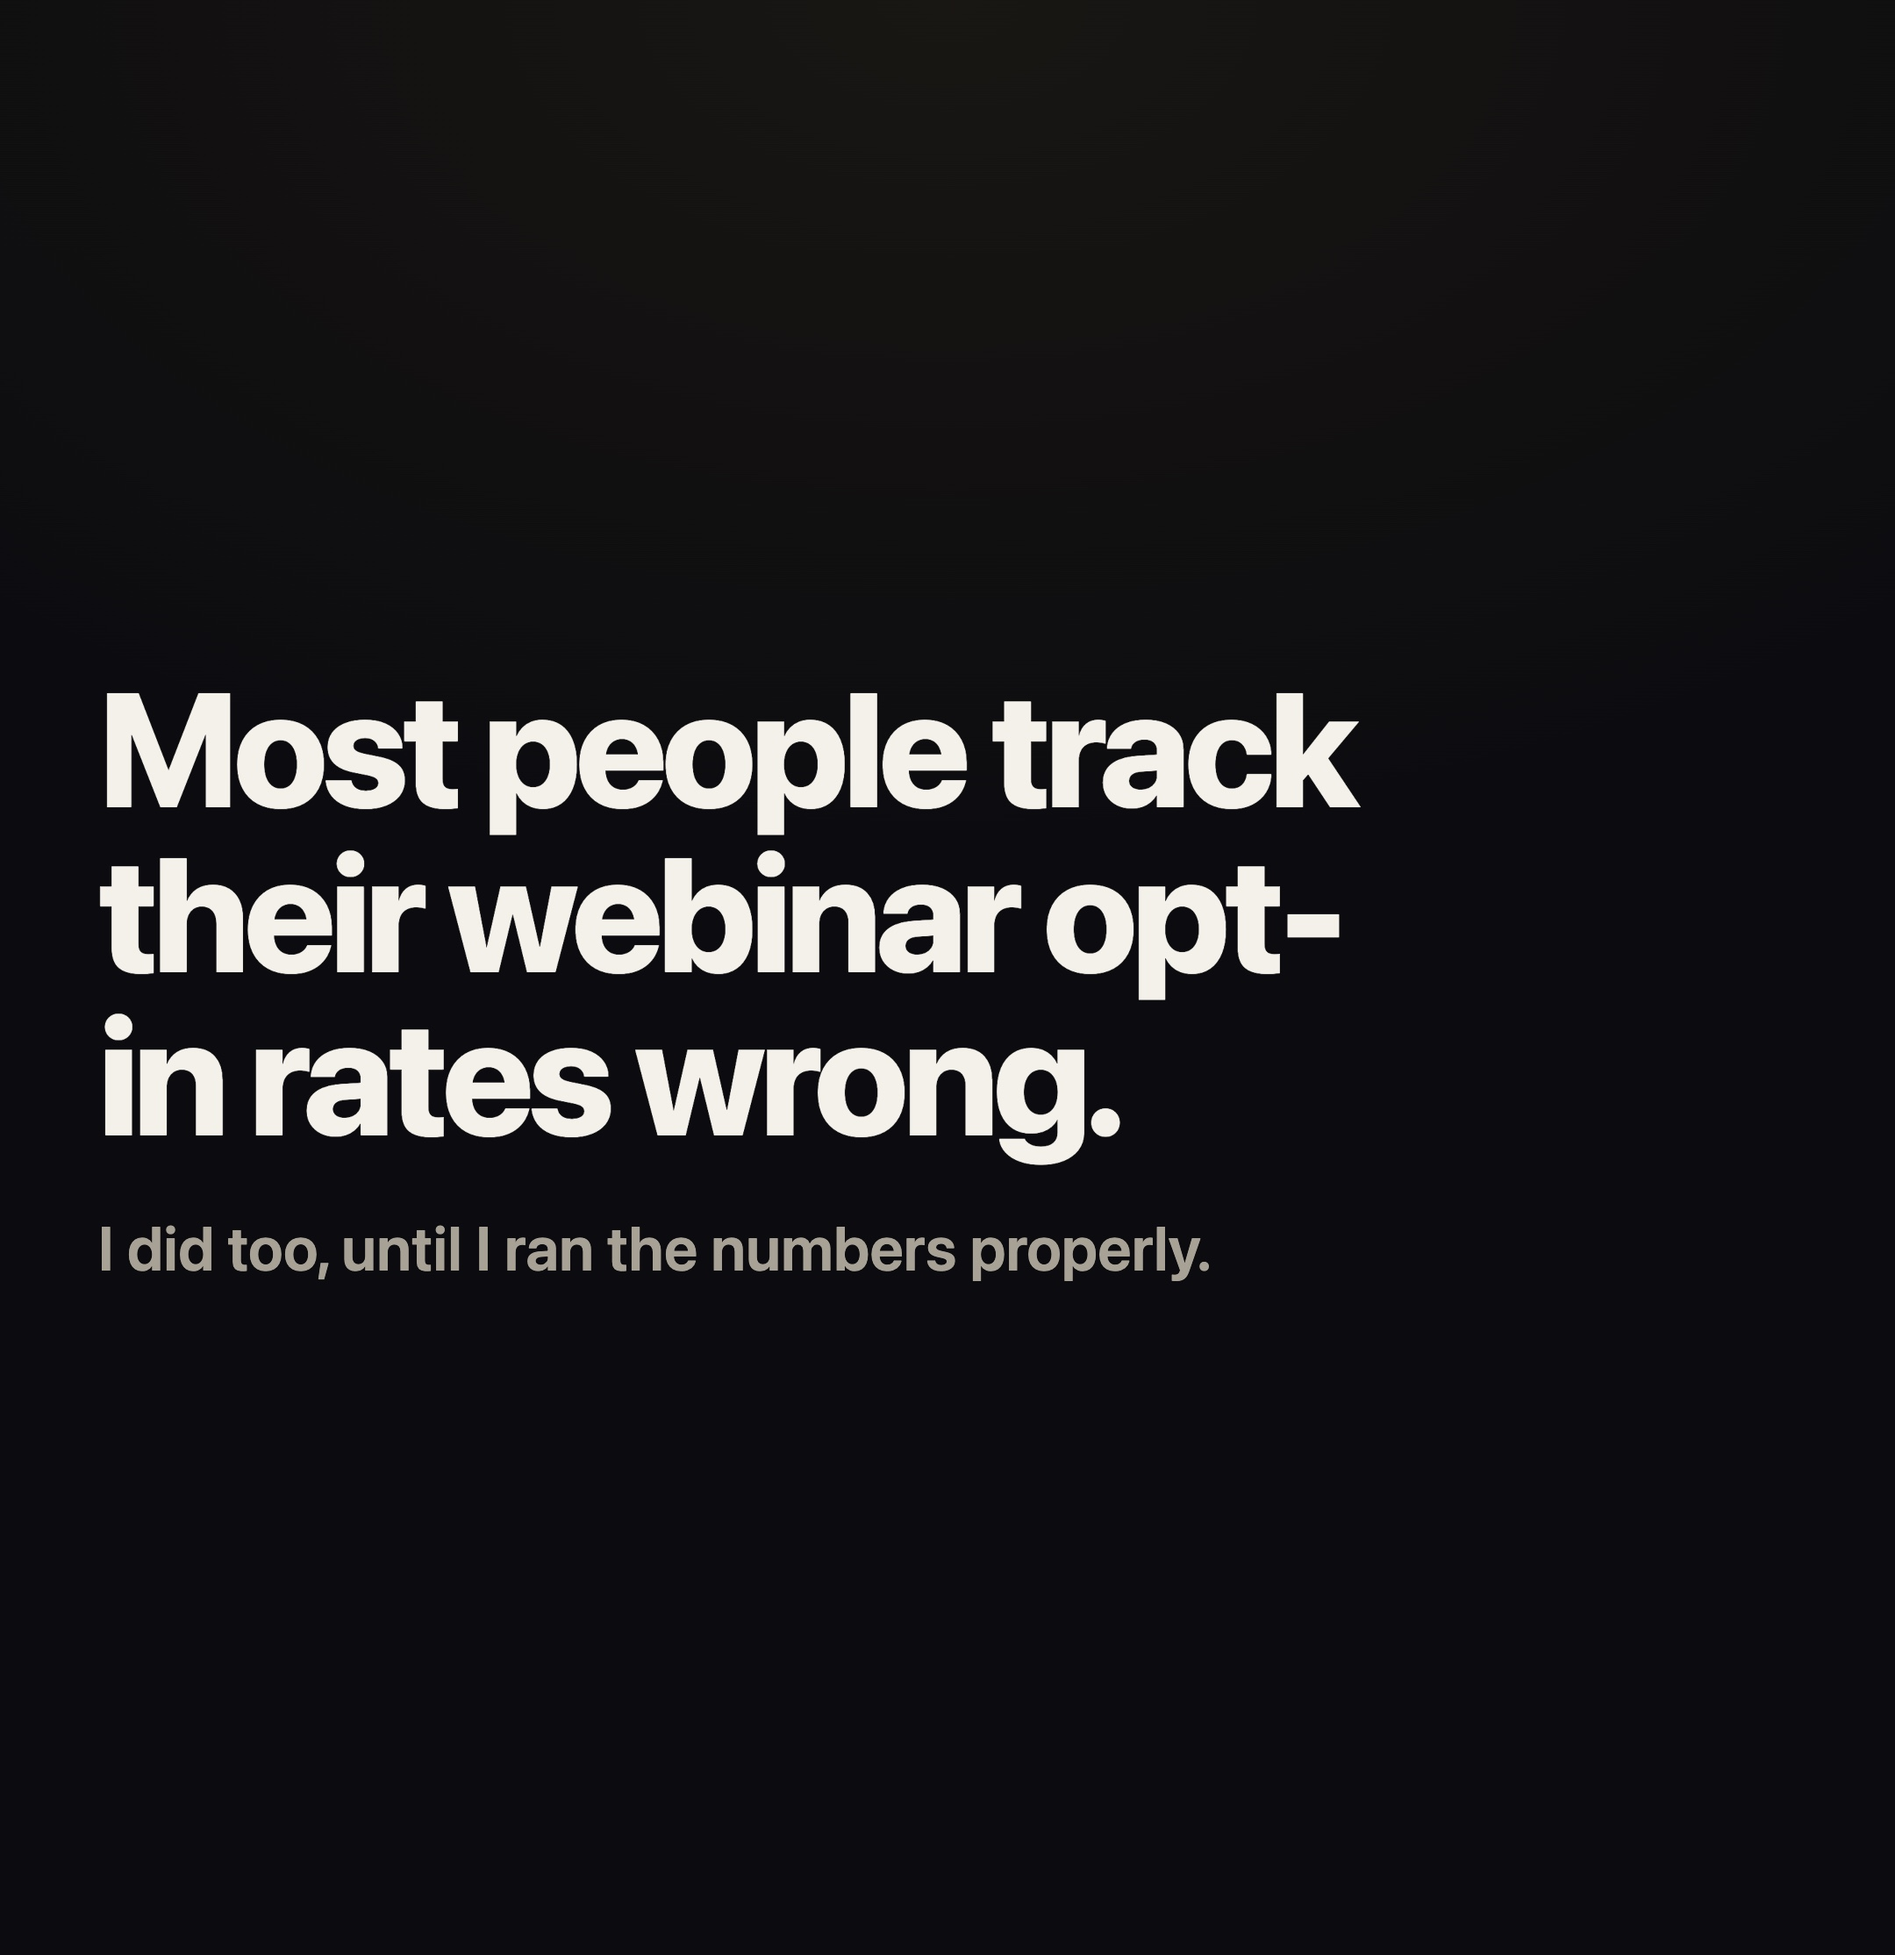
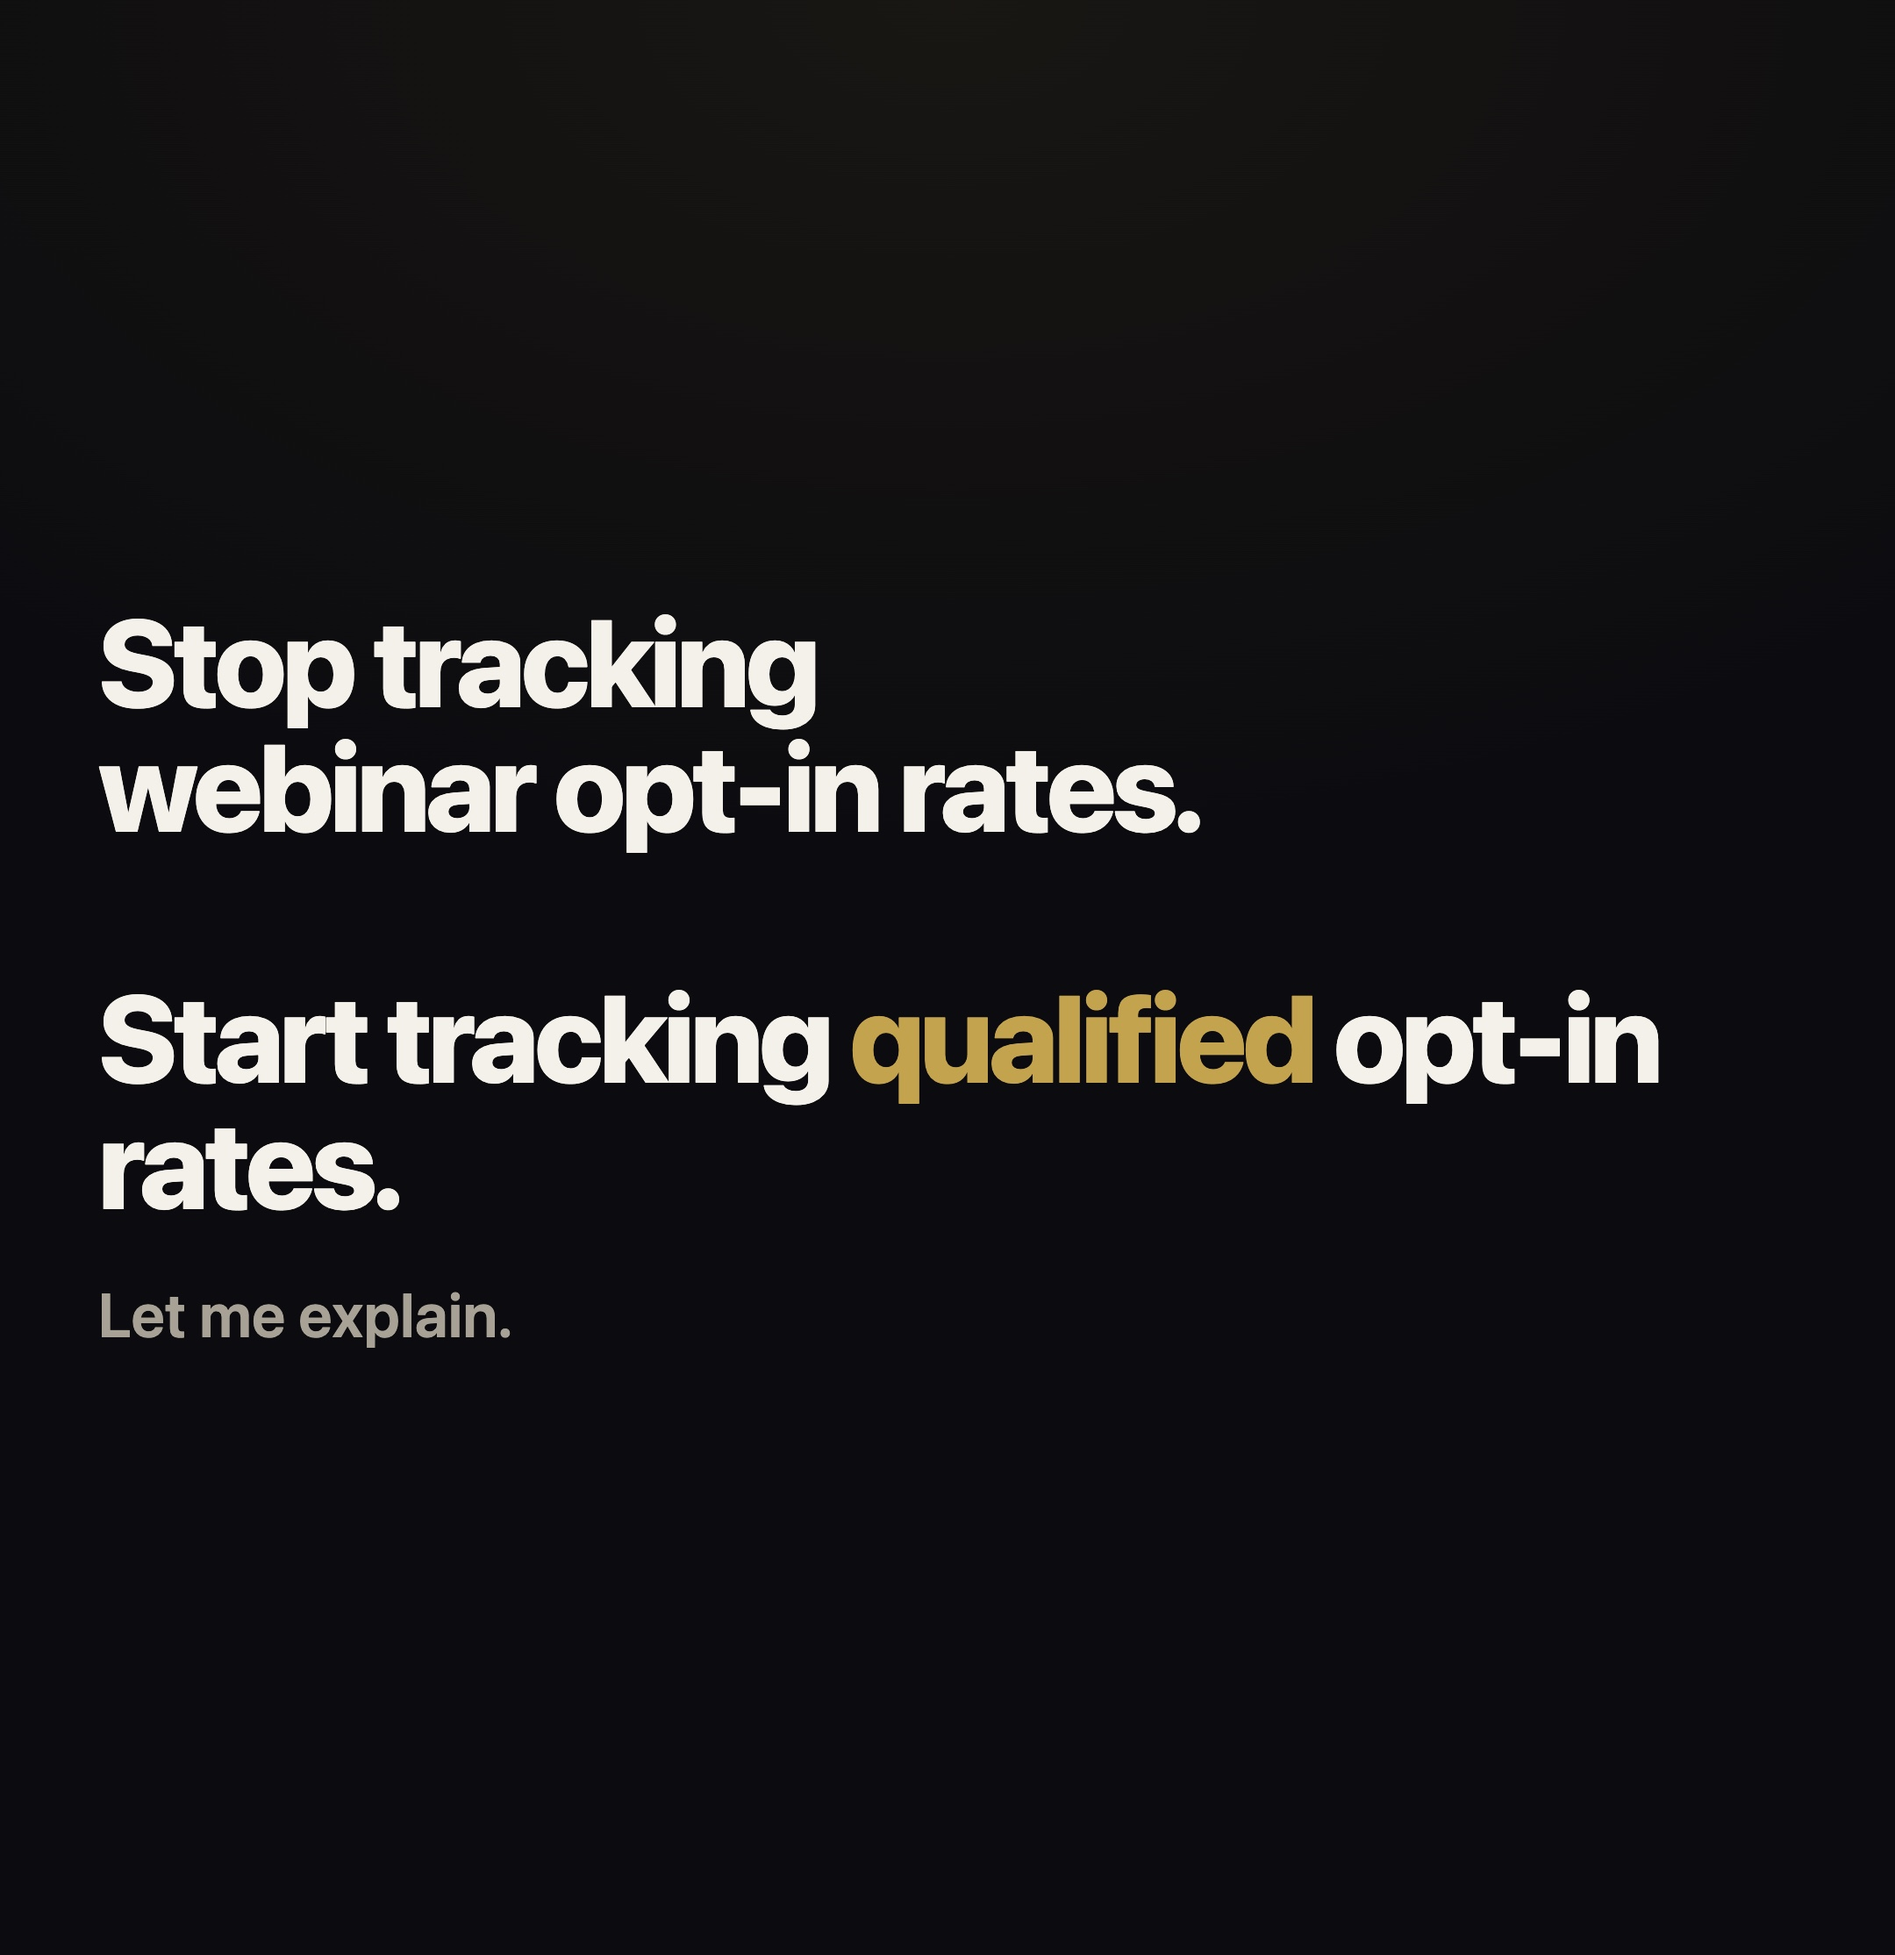
optin-rate: harder hook on slide 1
Was an observation ('most people track their webinar opt-in rates wrong').
Now an instruction: stop tracking webinar opt-in rates, start tracking
qualified opt-in rates. Then 'let me explain' hands off to slide 2.

Claude-Session: https://claude.ai/code/session_01JyUvhGiU74myjNDStH3gj5

Changed region(s): [[0.031, 0.3097, 0.8995, 0.6813]]

diff --git a/index.html b/index.html
@@ -119,7 +119,7 @@
   // Beat 1 must put something checkable on screen, with a date.
   // Load a specific board with ?b=<slug>.
   // ---------------------------------------------------------------
-  var ASSET_V = '9';   // bump whenever a frame image is re-rendered
+  var ASSET_V = '10';   // bump whenever a frame image is re-rendered
 
   var BOARDS = {
 
@@ -217,7 +217,7 @@
     'optin-rate': {
       name: 'Opt-in rate \u00b7 why qualified opt-in rate is the one that counts',
       beats: [
-        {img:'img/opt1.jpg', s:"Most people track their webinar opt-in rates wrong. I did too, until I ran the numbers properly."},
+        {img:'img/opt1.jpg', s:"Stop tracking webinar opt-in rates. Start tracking qualified opt-in rates. Let me explain."},
         {img:'img/opt2.jpg', s:"Here's what most people do. You judge the page on its opt-in rate. Highest rate wins, and the rest get switched off."},
         {img:'img/opt3.jpg', s:"So take three pages. Page C opts in at twenty percent, Page B at fifteen, Page A at ten. Which one do you switch off? Everybody kills Page A. It's half the rate of the winner."},
         {img:'img/opt4.jpg', s:"Now here's the number nobody looks at. How many of those people actually qualified. Page A, seventy percent. Page B, thirty five. Page C, thirty. The page with the worst opt-in rate has more than double the qualified rate."},

diff --git a/frames-optinrate.html b/frames-optinrate.html
@@ -80,8 +80,8 @@
 <body>
 
 <div class="f" id="o1">
-  <h1>Most people track their webinar opt-in rates wrong.</h1>
-  <div class="sub">I did too, until I ran the numbers properly.</div>
+  <h1 class="sm">Stop tracking webinar opt-in rates.<br><br>Start tracking <span>qualified</span> opt-in rates.</h1>
+  <div class="sub">Let me explain.</div>
 </div>
 
 <div class="f" id="o2">
